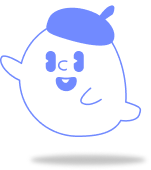
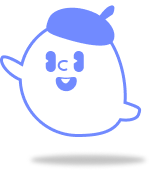
Feat: 이미지 변경

diff --git a/src/components/classhome/ClassInfo.tsx b/src/components/classhome/ClassInfo.tsx
@@ -17,6 +17,7 @@ const ClassInfo: React.FC = () => {
 		isByMe: boolean;
 		uuid: string;
 	}>();
+
 	const fetch = async () => {
 		if (classid) {
 			const response = await apis.loadClassInfo(classid);
@@ -37,6 +38,7 @@ const ClassInfo: React.FC = () => {
 		dispatch(changeModal('inviteCode'));
 	};
 
+	
 	const acceptStudent = async (studentId: string) => {
 		if (classid) {
 			const response = await apis.changeState(classid, studentId, true);

diff --git a/src/components/modal/NotSignIn.tsx b/src/components/modal/NotSignIn.tsx
@@ -74,12 +74,12 @@ const LightButton = styled(Button)`
 `;
 
 const Character = styled.div`
-	background-image: url('/images/notSignIn.png');
+	background-image: url('/images/notsignin.png');
 	background-position: center center;
 	background-repeat: no-repeat;
 	position: absolute;
-	width: 150px;
-	height: 165px;
+	width: 155px;
+	height: 160px;
 	right: 50px;
 	bottom: 30px;
 `;
